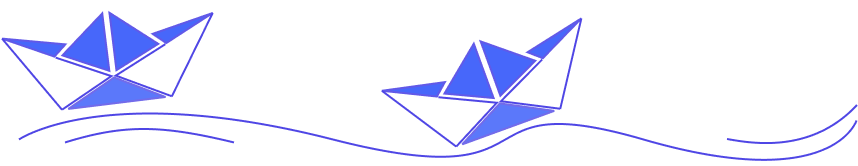
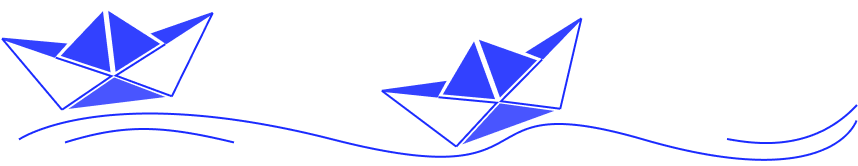
made changes in dashboard

diff --git a/moneyboat/src/Components/dashboard.js b/moneyboat/src/Components/dashboard.js
@@ -1,8 +1,67 @@
 import React from "react";
 import './dashboard.css';
 
+const lifebuoy = '/lifebuoy.png';
+    
 export const Dashboard =  () => {
+
+    const transactions = [
+        { date: "Jan 1", category: "Groceries", amount: "$50", note: "Vegetables" },
+        { date: "Jan 2", category: "Rent", amount: "$1,000", note: "January Rent" },
+      ];
+
+
     return(
-        <div className="dash">This is Dashboard</div>
+        <div className='dash'>
+            <div className="greet">
+                Ahoy , Username! Ready to sail towards your financial goal
+            </div>
+            <div className='Stats-pie-Tab'>
+                <div className='Stats'>
+                    <p>Lets check your Stats</p>
+                    <div className="Income" style={{ backgroundImage:{lifebuoy}}}>
+                        <img src = {lifebuoy}/>
+                        <p>Income</p>
+                        <p>$5000</p>
+                    </div>
+                    <div className="Savings">
+                        <p>Savings</p>
+                        <p>$4000</p>
+                    </div>
+                    <div className="Expenditure">
+                        <p>Expenditure</p>
+                        <p>$3000</p>
+                    </div>
+                </div>
+                <div className="pie">
+                    This is pie chart
+                </div>
+                <div className="Table">
+                    <h2>Recent Transactions</h2>
+                    <table>
+                        <thead>
+                            <tr>
+                                <th>Date</th>
+                                <th>Category</th>
+                                <th>Amount</th>
+                                <th>Note</th>
+                            </tr>
+                        </thead>
+                        <tbody>
+                            { transactions.map((txn,index) =>
+                            (
+                                <tr key={index}>
+                                    <td>{txn.date}</td>
+                                    <td>{txn.category}</td>
+                                    <td>{txn.amount}</td>
+                                    <td>{txn.note}</td>
+                                </tr>
+                            ))}
+                        </tbody>
+                    </table>
+
+                </div>
+            </div>
+        </div>
     )
 }

diff --git a/moneyboat/src/Components/dashboard.css b/moneyboat/src/Components/dashboard.css
@@ -1,6 +1,41 @@
 .dash{
-    color:whitesmoke;
-    margin:15vh 0 0 11vw;
-    font-size: 30px;
+    margin:20vh 5vw 0 5vw;
     font-weight: bolder;
+    display: flex;
+    flex-direction: column;
+    position: relative;
+    z-index: index 0;
+}
+.greet{
+    margin: 0 0 2vh 0;
+    padding: 2vh 10vw 3vh 2vw;
+    height:20%;
+    background-color: white;
+    border-radius: 15px;
+    display: flex;
+    flex-direction: row;
+    color: black; 
+    font-size: 30px;
+}
+
+.Stats-pie-Tab{
+    display: flex;
+    flex-direction: row;
+}
+
+.Stats{
+    margin: 3vh 0 5vh 0;
+    height:80%;
+    width:30vw;
+    background-color: white;
+    border-radius: 15px;
+    display: flex;
+    flex-direction: column;
+    color: black; 
+    font-size: 30px;
+    padding-left: 3vw ;
+}
+.Income{
+    background-image: url('/moneyboat/public/lifebuoy.png');
+
 }

diff --git a/moneyboat/src/Components/Register.css b/moneyboat/src/Components/Register.css
@@ -37,7 +37,7 @@ input[type="checkbox"] {
     width: 25px;  /* Increase width */
     height: 25px; /* Increase height */
     margin-top: 10px;
-    border-color: #0E00FF;
+    border-color: #1B2BFF;
 }
 #Priv{
     padding-left: 10px;
@@ -51,7 +51,7 @@ input[type="checkbox"] {
     padding: 5px;
     margin: 10px 0px 15px 5px;
     border-radius: 10px;
-    background-color: #0E00FF;
+    background-color: #1B2BFF;
     color: #FBFBFB;
     font-weight: 600;
     font-size:18px;
